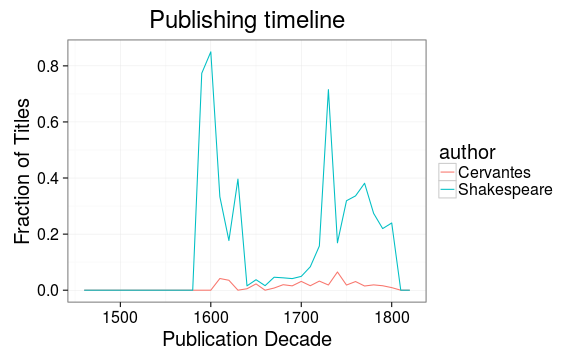
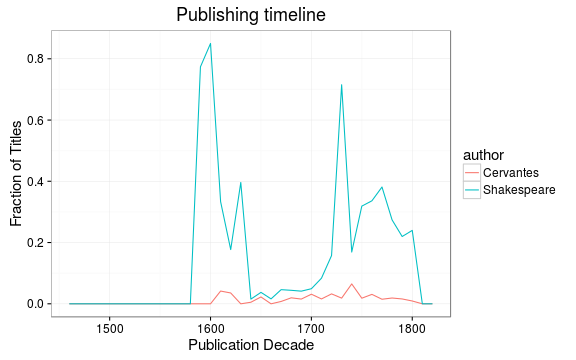
ok

Changed region(s): [[0.0, 0.0, 0.9688, 0.9778]]

diff --git a/inst/examples/Shakespeare.md b/inst/examples/Shakespeare.md
@@ -15,23 +15,23 @@ output: markdown_document
 
 ### Shakespeare versus other publishing activity
 
-![plot of chunk shakespeare-versusother](figure/shakespeare-versusother-1.png)
+<img src="figure/shakespeare-versusother-1.png" title="plot of chunk shakespeare-versusother" alt="plot of chunk shakespeare-versusother" width="530px" />
 
 
 ### Tragedy vs Comedy
 
-![plot of chunk shakespeare-tragedyvscomedy](figure/shakespeare-tragedyvscomedy-1.png)
+<img src="figure/shakespeare-tragedyvscomedy-1.png" title="plot of chunk shakespeare-tragedyvscomedy" alt="plot of chunk shakespeare-tragedyvscomedy" width="530px" />
 
 
 
 ### Individual title popularity
 
 
-<img src="figure/shakespeare-titles-1.png" title="plot of chunk shakespeare-titles" alt="plot of chunk shakespeare-titles" width="230px" /><img src="figure/shakespeare-titles-2.png" title="plot of chunk shakespeare-titles" alt="plot of chunk shakespeare-titles" width="230px" />
+<img src="figure/shakespeare-titles-1.png" title="plot of chunk shakespeare-titles" alt="plot of chunk shakespeare-titles" width="530px" /><img src="figure/shakespeare-titles-2.png" title="plot of chunk shakespeare-titles" alt="plot of chunk shakespeare-titles" width="530px" />
 
 
 ### Publisher timelines
 
-![plot of chunk shakespeare-publisher](figure/shakespeare-publisher-1.png)
+<img src="figure/shakespeare-publisher-1.png" title="plot of chunk shakespeare-publisher" alt="plot of chunk shakespeare-publisher" width="530px" />
 
 
